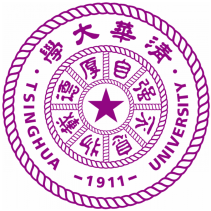
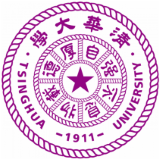
adjust v0

diff --git a/index.html b/index.html
@@ -23,7 +23,8 @@
               </p>
               <p>I am a final year MPhil Student at Tsinghua-Berkely Shenzhen Institute (TBSI), Tsinghua University, co-advised by <a href="http://media.au.tsinghua.edu.cn/english/team/qhdai.html">Prof. Qionghai Dai</a> and <a href="http://www.luvision.net/">Prof. Lu Fang</a>. 
                 Before that, I received my B.E. degree from South China University of Technology (SCUT), where I studied intelligence science and technology. I had a wonderful time in UC Berkely as a visiting student during my senior year.
-                My research spans computer vision, machine learning, and neural science. My previous research was about inferring the physical world from images (computer vision track) and decoding neural signals (neural science track). Representative papers are <span class="highlight">highlighted</span>.
+                <br>
+                My research interest spans computer vision, machine learning, and neural science. My previous research was about inferring the physical world from images (computer vision track) and decoding neural signals (neural science track). Representative papers are <span class="highlight">highlighted</span>.
               </p>
               <p style="text-align:center">
                 <a href="mailto:mssheldonmao@gmail.com">Email</a> &nbsp/&nbsp
@@ -86,7 +87,7 @@
           <tr onmouseout="material_stop()" onmouseover="material_start()" >
             <td style="padding:20px;width:25%;vertical-align:middle">
               <div class="one">
-                <div class="two" id='material_image'><img src='images/material_ir.png'></div>
+                <div class="two" id='material_image'><img src='images/material_ir.png' width="160"></div>
                 <img src='images/material_rgb.png' width="160">
               </div>
               <script type="text/javascript">
@@ -128,7 +129,7 @@
         <table width="100%" align="center" border="0" cellpadding="20"><tbody>
           <tr>
             <td style="padding:10px;width:20%;vertical-align:middle">
-              <img src="images/thu_icon.png" alt="THU">
+              <img src="images/thu_icon.png" alt="THU" width="160">
             </td>
             <td style="width:5%"></td>
             <td width="100%" valign="center">
@@ -146,7 +147,7 @@
 
           <tr>
             <td style="padding:10px;width:20%;vertical-align:middle">
-              <img src="images/scut_icon.png" alt="scut">
+              <img src="images/scut_icon.png" alt="scut" width="160">
             </td>
             <td style="width:5%"></td>
             <td width="100%" valign="center">
@@ -162,7 +163,7 @@
 
           <tr>
             <td style="padding:10px;width:20%;vertical-align:middle">
-              <img src="images/ucb_icon_circle.png" alt="ucb">
+              <img src="images/ucb_icon_circle.png" alt="ucb" width="160">
             </td>
             <td style="width:5%"></td>
             <td width="100%" valign="center">
